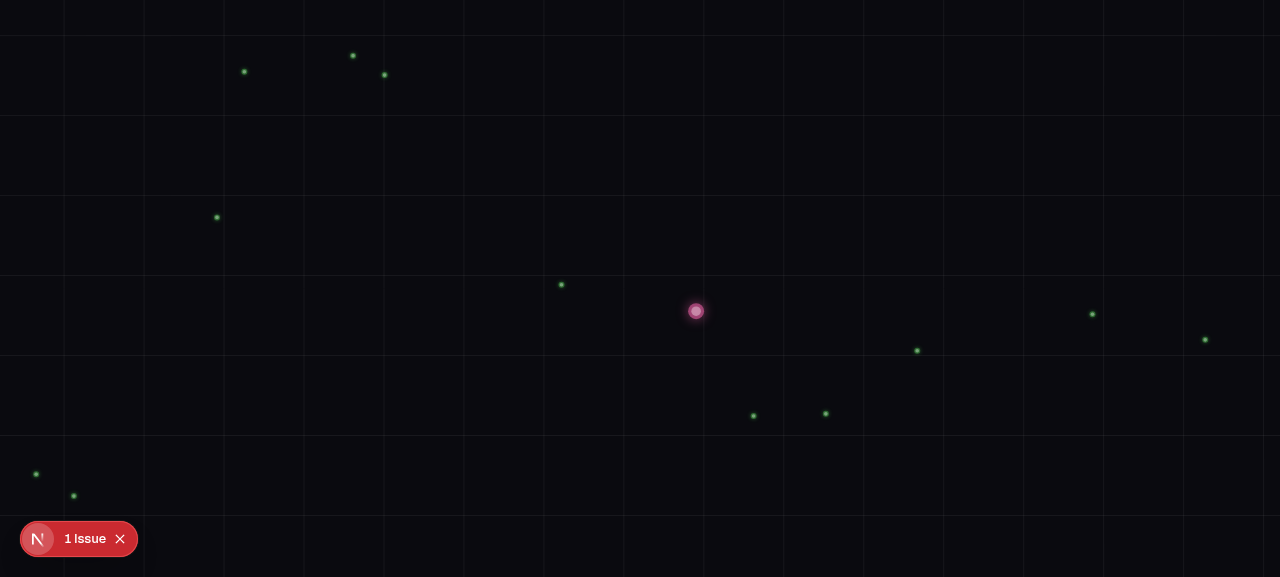
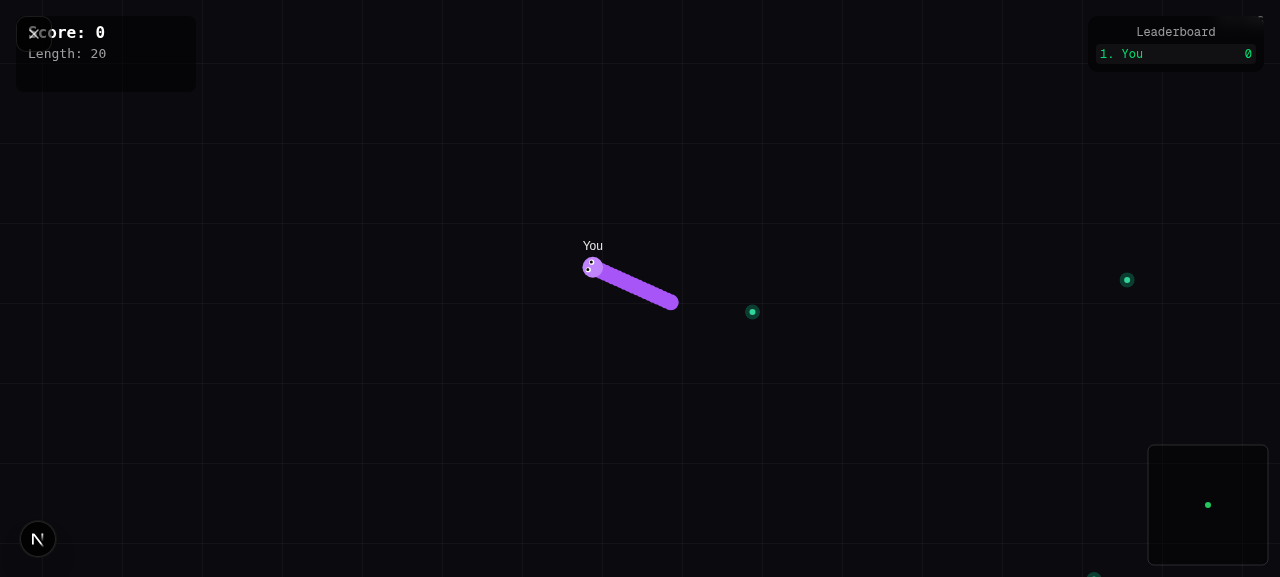
021284c5-dec1-4828-879b-4ef816a5d89c

diff --git a/src/lib/snake/engine.ts b/src/lib/snake/engine.ts
@@ -8,7 +8,7 @@
 // ============================================================================
 
 import type {
-  GameState, InputState, FoodOrb, Snake, StarChip, SpiralTurnState,
+  GameState, InputState, FoodOrb, Snake, StarChip,
 } from './types';
 import { PathBuffer, scratchVec2 } from './pool';
 import { SpatialHash, type SpatialEntity } from './spatial-hash';
@@ -31,9 +31,6 @@ import {
   BOT_COUNT, BOT_MAX_TURN_RATE, BOT_START_SCORE_MIN, BOT_START_SCORE_MAX,
   // SPAWN
   SAFE_SPAWN_DIST, SAFE_SPAWN_ATTEMPTS,
-  // SPIRAL_TURN
-  TIGHT_TURN_THRESHOLD, SPIRAL_DETECT_WINDOW, MAX_SPIRAL_ANGLE_DELTA,
-  SPIRAL_A, SPIRAL_B,
   // EXTRACTION
   EXTRACTION_ZONE_RADIUS, EXTRACTION_SCORE_THRESHOLD, EXTRACTION_SPEED_BONUS,
   STAR_CHIP_VALUE, STAR_CHIP_SPAWN_INTERVAL, STAR_CHIP_RADIUS,
@@ -81,50 +78,11 @@ const foodValueCache = new Map<number, number>();
 const _insertScratch: SpatialEntity = { x: 0, y: 0, radius: 0, id: 0 };
 
 // ==========================================================================
-// Spiral turn detection (Phase A: detection only, math in Phase B)
+// Spiral turn system DISABLED — was causing infinite spinning bug.
+// The exit condition could never trigger because the spiral's own turn
+// rate (clamped to MAX_TURN_RATE * 2 = 0.754 rad) always exceeded
+// MAX_SPIRAL_ANGLE_DELTA (0.15 rad). Will be re-implemented later.
 // ==========================================================================
-
-function createSpiralState(): SpiralTurnState {
-  return {
-    active: false,
-    startAngle: 0,
-    theta: 0,
-    ticksElapsed: 0,
-    a: SPIRAL_A,
-    b: SPIRAL_B,
-    direction: 1,
-  };
-}
-
-/**
- * Detect tight turns and update Fibonacci spiral state.
- * Phase A: detection + metadata generation only.
- * Phase B will use this state for actual spiral path math.
- */
-function updateSpiralTurn(snake: Snake, angleDelta: number): void {
-  const absDelta = Math.abs(angleDelta);
-  const spiral = snake.spiral;
-
-  if (!spiral.active) {
-    // Check if we entered a tight turn
-    if (absDelta > TIGHT_TURN_THRESHOLD) {
-      spiral.active = true;
-      spiral.startAngle = snake.prevAngle;
-      spiral.theta = 0;
-      spiral.ticksElapsed = 0;
-      spiral.direction = angleDelta > 0 ? 1 : -1;
-    }
-  } else {
-    // We're in a spiral turn
-    spiral.ticksElapsed++;
-    spiral.theta += absDelta;
-
-    // Check if spiral ended (angle delta returned to normal)
-    if (absDelta < MAX_SPIRAL_ANGLE_DELTA && spiral.ticksElapsed > SPIRAL_DETECT_WINDOW) {
-      spiral.active = false;
-    }
-  }
-}
 
 // ==========================================================================
 // Initialization
@@ -179,7 +137,9 @@ function createSnake(
 ): Snake {
   const targetLength = Math.min(Math.floor(START_LENGTH + startScore * GROWTH_RATE), MAX_SNAKE_LENGTH);
   const palette = SNAKE_PALETTES[Math.floor(Math.random() * SNAKE_PALETTES.length)];
-  const angle = Math.random() * Math.PI * 2;
+  // Start facing right (angle=0) to match InputHandler's initial targetAngle=0.
+  // Prevents violent spin on game start.
+  const angle = 0;
 
   // Pre-allocate path buffer
   const path = new PathBuffer(Math.max(targetLength * 2, 100));
@@ -208,7 +168,7 @@ function createSnake(
     headColor: palette[1],
     lastBoostDrop: 0,
     targetAngle: angle,
-    spiral: createSpiralState(),
+    spiral: { active: false, startAngle: 0, theta: 0, ticksElapsed: 0, a: 0, b: 0, direction: 1 },
     bodyRadius: SNAKE_RADIUS,
     skinId: 'skin-default',
     rarity: 'common',
@@ -317,58 +277,22 @@ function moveSnake(
   snake.prevAngle = snake.angle;
 
   // ── Angle computation ──────────────────────────────────────────────
-  // Phase B: When a Fibonacci spiral turn is active, compute the angle
-  // change from the logarithmic spiral formula instead of linear turning.
+  // Simple linear turning toward target angle.
 
   let diff = targetAngle - snake.angle;
   while (diff > Math.PI) diff -= 2 * Math.PI;
   while (diff < -Math.PI) diff += 2 * Math.PI;
 
-  if (snake.spiral.active) {
-    // ── Spiral movement (Phase B) ───────────────────────────────────────
-    // r = a * e^(b * theta) → dTheta = speed / r
-    const spiral = snake.spiral;
-    const r = spiral.a * Math.exp(spiral.b * spiral.theta);
-    const safeR = Math.max(r, 0.1);
-
-    let dTheta = snake.speed / safeR;
-    // Clamp to a reasonable range [0.01, MAX_TURN_RATE * 2]
-    dTheta = Math.max(0.01, Math.min(dTheta, MAX_TURN_RATE * 2));
-
-    // Advance theta and apply angle in the spiral direction.
-    spiral.theta += dTheta;
-    snake.angle = spiral.startAngle + spiral.direction * spiral.theta;
-
-    // Normalize angle to [-PI, PI].
-    if (snake.angle > Math.PI) snake.angle -= 2 * Math.PI;
-    else if (snake.angle < -Math.PI) snake.angle += 2 * Math.PI;
-
-    // Recompute diff for spiral exit detection.
-    diff = snake.angle - snake.prevAngle;
-    while (diff > Math.PI) diff -= 2 * Math.PI;
-    while (diff < -Math.PI) diff += 2 * Math.PI;
-
-    // Check if spiral should end (exceeded expected theta or straightened).
-    spiral.ticksElapsed++;
-    if (Math.abs(diff) < MAX_SPIRAL_ANGLE_DELTA && spiral.ticksElapsed > SPIRAL_DETECT_WINDOW) {
-      spiral.active = false;
-    }
+  const maxTurn = snake.isBot ? BOT_MAX_TURN_RATE : MAX_TURN_RATE;
+  if (Math.abs(diff) <= maxTurn) {
+    snake.angle = targetAngle;
   } else {
-    // ── Normal linear turning (Phase A) ──────────────────────────────────
-    const maxTurn = snake.isBot ? BOT_MAX_TURN_RATE : MAX_TURN_RATE;
-    if (Math.abs(diff) <= maxTurn) {
-      snake.angle = targetAngle;
-    } else {
-      snake.angle += Math.sign(diff) * maxTurn;
-    }
-
-    // Normalize angle to [-PI, PI]
-    if (snake.angle > Math.PI) snake.angle -= 2 * Math.PI;
-    else if (snake.angle < -Math.PI) snake.angle += 2 * Math.PI;
-
-    // Fibonacci spiral turn detection (Phase A)
-    updateSpiralTurn(snake, diff);
+    snake.angle += Math.sign(diff) * maxTurn;
   }
+
+  // Normalize angle to [-PI, PI]
+  if (snake.angle > Math.PI) snake.angle -= 2 * Math.PI;
+  else if (snake.angle < -Math.PI) snake.angle += 2 * Math.PI;
 
   // Boost eligibility
   const canBoost = wantBoost &&

diff --git a/src/components/game/SnakeGame.tsx b/src/components/game/SnakeGame.tsx
@@ -419,11 +419,18 @@ export default function SnakeGame({
       animFrameRef.current = requestAnimationFrame(loop);
     };
 
-    const onDeathAction = () => {
-      handleRespawn();
+    // ── Death overlay: Space/click to respawn (only when dead) ──
+    const onRespawnKey = (e: KeyboardEvent) => {
+      if (e.key === ' ' || e.key === 'Enter') {
+        e.preventDefault();
+        if (isDeadRef.current) handleRespawn();
+      }
     };
-    window.addEventListener('keydown', onDeathAction);
-    canvas.addEventListener('click', onDeathAction);
+    const onRespawnClick = () => {
+      if (isDeadRef.current) handleRespawn();
+    };
+    window.addEventListener('keydown', onRespawnKey);
+    canvas.addEventListener('click', onRespawnClick);
 
     animFrameRef.current = requestAnimationFrame(loop);
 
@@ -432,8 +439,8 @@ export default function SnakeGame({
       cancelAnimationFrame(animFrameRef.current);
       input.detach();
       window.removeEventListener('resize', resize);
-      window.removeEventListener('keydown', onDeathAction);
-      canvas.removeEventListener('click', onDeathAction);
+      window.removeEventListener('keydown', onRespawnKey);
+      canvas.removeEventListener('click', onRespawnClick);
 
       // Cleanup online connections
       if (onlineEngine) {

diff --git a/src/components/game/renderer.ts b/src/components/game/renderer.ts
@@ -417,7 +417,7 @@ export function drawDeathOverlay(
 
   ctx.fillStyle = 'rgba(255, 255, 255, 0.6)';
   ctx.font = '16px sans-serif';
-  ctx.fillText('Click or press any key to respawn', width / 2, height / 2 + 50);
+  ctx.fillText('Press Space or Click to respawn', width / 2, height / 2 + 50);
 }
 
 // ==========================================================================

diff --git a/worklog.md b/worklog.md
@@ -1573,3 +1573,27 @@ Stage Summary:
 - Estimated 5-10x FPS improvement
 - Online/offline mode now properly wired (was always offline before)
 - All changes pushed to git
+---
+Task ID: snake-fix-3-bugs
+Agent: Main
+Task: Fix 3 critical snake bugs: infinite spinning, teleport on WASD/click, violent start spin
+
+Work Log:
+- Read and analyzed all snake code: engine.ts, pool.ts, input.ts, SnakeGame.tsx, config.ts, types.ts, renderer.ts
+- Identified Bug 1: Fibonacci spiral turn system has broken exit condition (spiral's dTheta clamped to 0.754 rad always exceeds MAX_SPIRAL_ANGLE_DELTA of 0.15 rad), causing infinite spinning once activated
+- Identified Bug 2: `onDeathAction` handler bound to ALL keydown+click events calls `handleRespawn()` unconditionally, recreating snake at random position with random color on every keypress
+- Identified Bug 3: Snake spawns with random angle but InputHandler's targetAngle starts at 0, causing violent initial turn
+- Removed spiral turn system from engine.ts (disabled with comment explaining the math bug)
+- Simplified moveSnake() to use only linear turning
+- Changed createSnake() initial angle from `Math.random() * Math.PI * 2` to `0` (matches InputHandler)
+- Replaced unconditional death handlers with Space/Enter key + click that only trigger when `isDeadRef.current` is true
+- Updated death overlay text from 'Click or press any key to respawn' to 'Press Space or Click to respawn'
+- Verified BOT_COUNT already set to 0
+- Lint passed clean
+- Verified with agent-browser + VLM: snake moves straight, WASD changes direction (no teleport), no spinning, no errors
+
+Stage Summary:
+- 3 critical bugs fixed: infinite spinning, teleport+color change, violent start spin
+- Snake now starts facing right (angle 0), moves straight, turns smoothly with WASD/mouse
+- No bots (BOT_COUNT=0) for clean testing
+- Files changed: src/lib/snake/engine.ts, src/components/game/SnakeGame.tsx, src/components/game/renderer.ts
